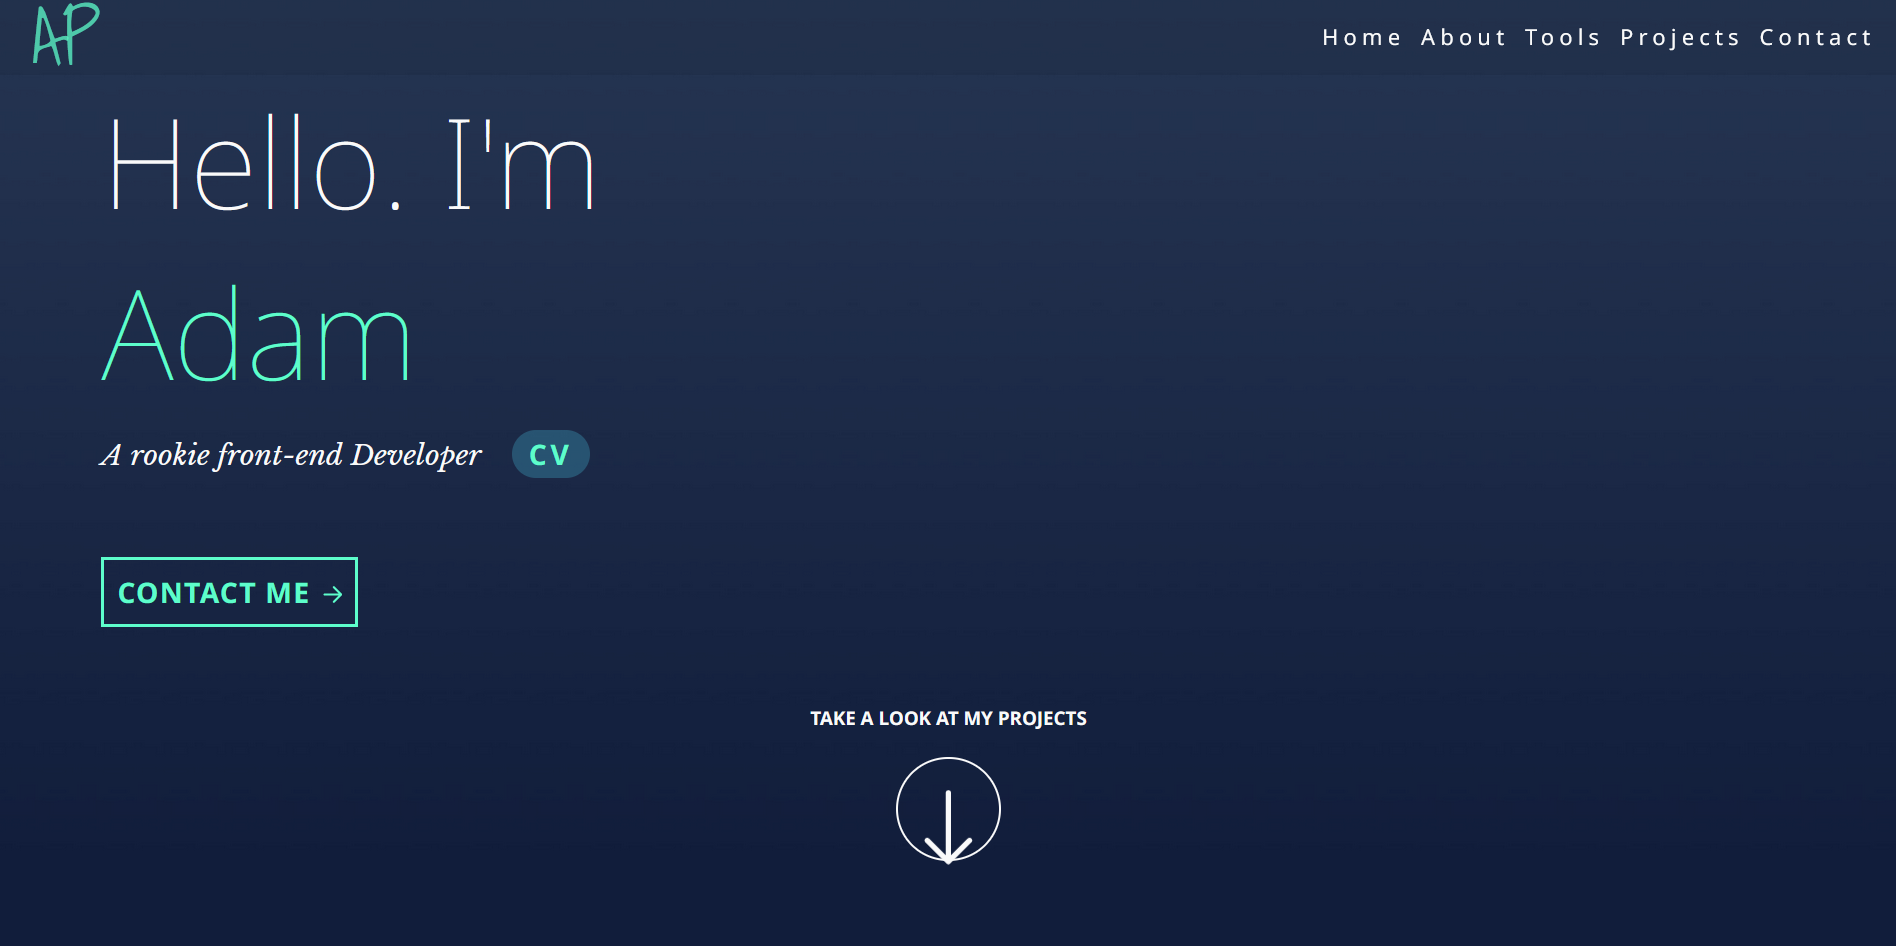
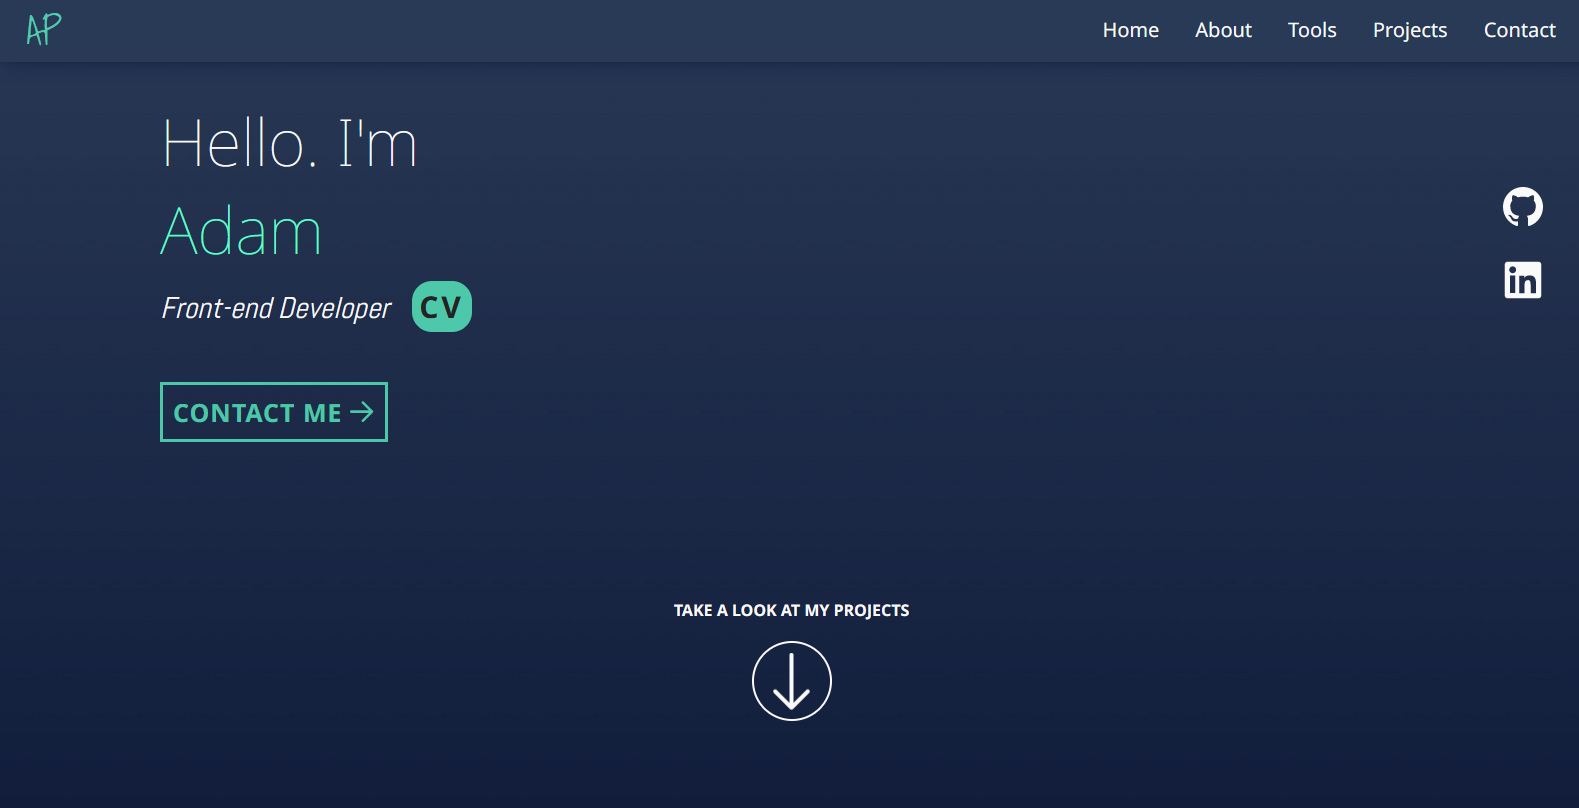
Content changes

diff --git a/index.html b/index.html
@@ -27,11 +27,11 @@
             </ul>
             <div class="js-menu  menu">
                 <ul class="ml">
-                    <li id="js-option1" class="ml-itm"><a href="#home" class="fs-xl  ml-skip">Home</a></li>
-                    <li id="js-option2" class="ml-itm"><a href="#about" class="fs-xl  ml-skip">About</a></li>
-                    <li id="js-option3" class="ml-itm"><a href="#tools" class="fs-xl  ml-skip">Tools</a></li>
-                    <li id="js-option4" class="ml-itm"><a href="#projects" class="fs-xl  ml-skip">Projects</a></li>
-                    <li id="js-option5" class="ml-itm"><a href="#contact" class="fs-xl  ml-skip">Contact</a></li>
+                    <li id="js-option1" class="ml-itm"><a href="#home" class="fs-l  ml-skip">Home</a></li>
+                    <li id="js-option2" class="ml-itm"><a href="#about" class="fs-l  ml-skip">About</a></li>
+                    <li id="js-option3" class="ml-itm"><a href="#tools" class="fs-l  ml-skip">Tools</a></li>
+                    <li id="js-option4" class="ml-itm"><a href="#projects" class="fs-l  ml-skip">Projects</a></li>
+                    <li id="js-option5" class="ml-itm"><a href="#contact" class="fs-l  ml-skip">Contact</a></li>
                 </ul>
                 <a href="#" class="btn  btn-typ4  open-resume-btn  centr  fs-m"><svg class="download-icon" xmlns="http://www.w3.org/2000/svg" aria-hidden="true" role="img" width="20" height="20" preserveAspectRatio="xMidYMid meet" viewBox="0 0 1024 1024"><path fill="#242325" d="M505.7 661a8 8 0 0 0 12.6 0l112-141.7c4.1-5.2.4-12.9-6.3-12.9h-74.1V168c0-4.4-3.6-8-8-8h-60c-4.4 0-8 3.6-8 8v338.3H400c-6.7 0-10.4 7.7-6.3 12.9l112 141.8zM878 626h-60c-4.4 0-8 3.6-8 8v154H214V634c0-4.4-3.6-8-8-8h-60c-4.4 0-8 3.6-8 8v198c0 17.7 14.3 32 32 32h684c17.7 0 32-14.3 32-32V634c0-4.4-3.6-8-8-8z"/></svg>Resume</a>
                 <div class="menu-socials">
@@ -40,20 +40,30 @@
                 </div>
             </div>
         </nav>
-        <h1 id="home" class="fs-xxl  hello">Hello. I'm <span>Adam</span></h1>
-        <p class="txt-italic  fs-m    profession">Front-end Developer</p>
-        <a href="#" class="btn  btn-typ4  hedr-open-resume-btn  centr  fs-m">CV</a>
-        <a class="btn  btn-typ1  contact-btn  centr  fs-s" href="#contact">CONTACT ME <span><svg class="anim-arrow-right" xmlns="http://www.w3.org/2000/svg" aria-hidden="true" role="img" width="18" height="18" preserveAspectRatio="xMidYMid meet" viewBox="0 0 20 20"><path fill="none" stroke="#5dfdcb" stroke-linecap="round" stroke-linejoin="round" stroke-width="2" d="M4 12h16m-7-7l7 7l-7 7"/></svg></span></a>
-        <div class="centr  fs-xs  skip-to-projects">
-            <p class="txt-upr  attention">Take a look at my projects</p>
-            <a class="skip-btn" href="#projects">
-                <svg class="anim-arrow-down" xmlns="http://www.w3.org/2000/svg" aria-hidden="true" role="img" width="65" height="65" preserveAspectRatio="xMidYMid meet" viewBox="0 0 16 16"><path fill="#fafafa" fill-rule="evenodd" d="M8 1a.5.5 0 0 1 .5.5v11.793l3.146-3.147a.5.5 0 0 1 .708.708l-4 4a.5.5 0 0 1-.708 0l-4-4a.5.5 0 0 1 .708-.708L7.5 13.293V1.5A.5.5 0 0 1 8 1z"/></svg>
-            </a>
+        <div class="hedr-wrapper">
+            <div class="hedr-content">
+                <div class="hedr-info">
+                    <h1 id="home" class="fs-xl  hello">Hello. I'm <span>Adam</span></h1>
+                    <p class="txt-italic  fs-m    profession">Front-end Developer</p>
+                    <a href="#" class="btn  btn-typ4  hedr-open-resume-btn  centr  fs-m">CV</a>
+                    <a class="btn  btn-typ1  contact-btn  centr  fs-s" href="#contact">CONTACT ME <span><svg class="anim-arrow-right" xmlns="http://www.w3.org/2000/svg" aria-hidden="true" role="img" width="18" height="18" preserveAspectRatio="xMidYMid meet" viewBox="0 0 20 20"><path fill="none" stroke="#5cfcc9bf" stroke-linecap="round" stroke-linejoin="round" stroke-width="2" d="M4 12h16m-7-7l7 7l-7 7"/></svg></span></a>
+                </div>
+                <div class="hedr-socials">
+                    <a href="https://github.com/adam-pilgermayer" class="github-profile" target="_blank"><svg xmlns="http://www.w3.org/2000/svg" aria-hidden="true" role="img" width="40" height="40" preserveAspectRatio="xMidYMid meet" viewBox="0 0 24 24"><path fill="#fafafa" fill-rule="evenodd" d="M12 0C5.37 0 0 5.37 0 12c0 5.31 3.435 9.795 8.205 11.385c.6.105.825-.255.825-.57c0-.285-.015-1.23-.015-2.235c-3.015.555-3.795-.735-4.035-1.41c-.135-.345-.72-1.41-1.23-1.695c-.42-.225-1.02-.78-.015-.795c.945-.015 1.62.87 1.845 1.23c1.08 1.815 2.805 1.305 3.495.99c.105-.78.42-1.305.765-1.605c-2.67-.3-5.46-1.335-5.46-5.925c0-1.305.465-2.385 1.23-3.225c-.12-.3-.54-1.53.12-3.18c0 0 1.005-.315 3.3 1.23c.96-.27 1.98-.405 3-.405s2.04.135 3 .405c2.295-1.56 3.3-1.23 3.3-1.23c.66 1.65.24 2.88.12 3.18c.765.84 1.23 1.905 1.23 3.225c0 4.605-2.805 5.625-5.475 5.925c.435.375.81 1.095.81 2.22c0 1.605-.015 2.895-.015 3.3c0 .315.225.69.825.57A12.02 12.02 0 0 0 24 12c0-6.63-5.37-12-12-12Z" clip-rule="evenodd"/></svg></a>
+                    <a href="#" class="linkedin-profile" target="_blank"><svg xmlns="http://www.w3.org/2000/svg" aria-hidden="true" role="img" width="40" height="40" preserveAspectRatio="xMidYMid meet" viewBox="0 0 24 24"><path fill="#fafafa" fill-rule="evenodd" d="M1 2.838A1.838 1.838 0 0 1 2.838 1H21.16A1.837 1.837 0 0 1 23 2.838V21.16A1.838 1.838 0 0 1 21.161 23H2.838A1.838 1.838 0 0 1 1 21.161V2.838Zm8.708 6.55h2.979v1.496c.43-.86 1.53-1.634 3.183-1.634c3.169 0 3.92 1.713 3.92 4.856v5.822h-3.207v-5.106c0-1.79-.43-2.8-1.522-2.8c-1.515 0-2.145 1.089-2.145 2.8v5.106H9.708V9.388Zm-5.5 10.403h3.208V9.25H4.208v10.54ZM7.875 5.812a2.063 2.063 0 1 1-4.125 0a2.063 2.063 0 0 1 4.125 0Z" clip-rule="evenodd"/></svg></a>
+                </div>
+            </div>
+            <div class="centr  fs-xxs  skip-to-projects">
+                <p class="txt-upr  attention">Take a look at my projects</p>
+                <a class="skip-btn" href="#projects">
+                    <svg class="anim-arrow-down" xmlns="http://www.w3.org/2000/svg" aria-hidden="true" role="img" width="65" height="65" preserveAspectRatio="xMidYMid meet" viewBox="0 0 16 16"><path fill="#fafafa" fill-rule="evenodd" d="M8 1a.5.5 0 0 1 .5.5v11.793l3.146-3.147a.5.5 0 0 1 .708.708l-4 4a.5.5 0 0 1-.708 0l-4-4a.5.5 0 0 1 .708-.708L7.5 13.293V1.5A.5.5 0 0 1 8 1z"/></svg>
+                </a>
+            </div>
         </div>
     </header>
     <main>
         <section id="about" class="main-sec">
-            <h2 class="fs-xl  sec-title">About</h2>
+            <h2 class="fs-l  sec-title">About</h2>
             <div class="centr  name-card">
                 <h3 class="txt-brzy  fs-m  me">Adam Pilgermayer</h3>
                 <p class="fs-xs  txt-brzy  my-story">I started my journey to become a web developer in January, 2022. I'm passionate about making my products look great and user friendly.</p>
@@ -61,8 +71,7 @@
             </div>
         </section>
         <section id="tools" class="main-sec">
-            <h2 class="fs-xl  sec-title">Tools</h2>
-            <p class="fs-s  centr  toolbox-desc">I use these to create my websites</p>
+            <h2 class="fs-l  sec-title">Tools</h2>
             <div class="toolbox">
                 <figure class="tb_fig  tool">
                     <svg xmlns="http://www.w3.org/2000/svg" aria-hidden="true" role="img" width="46.67" height="70" preserveAspectRatio="xMidYMid meet" viewBox="0 0 256 384"><path fill="#0ACF83" d="M64 384c35.328 0 64-28.672 64-64v-64H64c-35.328 0-64 28.672-64 64s28.672 64 64 64Z"/><path fill="#A259FF" d="M0 192c0-35.328 28.672-64 64-64h64v128H64c-35.328 0-64-28.672-64-64Z"/><path fill="#F24E1E" d="M0 64C0 28.672 28.672 0 64 0h64v128H64C28.672 128 0 99.328 0 64Z"/><path fill="#FF7262" d="M128 0h64c35.328 0 64 28.672 64 64s-28.672 64-64 64h-64V0Z"/><path fill="#1ABCFE" d="M256 192c0 35.328-28.672 64-64 64s-64-28.672-64-64s28.672-64 64-64s64 28.672 64 64Z"/></svg>
@@ -76,26 +85,30 @@
                     <svg xmlns="http://www.w3.org/2000/svg" aria-hidden="true" role="img" width="70" height="70" preserveAspectRatio="xMidYMid meet" viewBox="0 0 32 32"><path fill="#1572b6" d="M5.902 27.201L3.656 2h24.688l-2.249 25.197L15.985 30L5.902 27.201z"/><path fill="#33a9dc" d="m16 27.858l8.17-2.265l1.922-21.532H16v23.797z"/><path fill="#fff" d="M16 13.191h4.09l.282-3.165H16V6.935h7.75l-.074.829l-.759 8.518H16v-3.091z"/><path fill="#ebebeb" d="m16.019 21.218l-.014.004l-3.442-.93l-.22-2.465H9.24l.433 4.853l6.331 1.758l.015-.004v-3.216z"/><path fill="#fff" d="m19.827 16.151l-.372 4.139l-3.447.93v3.216l6.336-1.756l.047-.522l.537-6.007h-3.101z"/><path fill="#ebebeb" d="M16.011 6.935v3.091H8.545l-.062-.695l-.141-1.567l-.074-.829h7.743zM16 13.191v3.091h-3.399l-.062-.695l-.14-1.567l-.074-.829H16z"/></svg>
                     <figcaption class="fs-xs  centr  tool-name">CSS3</figcaption>
                 </figure>
+                <figure class="tb_fig  tool">
+                    <svg xmlns="http://www.w3.org/2000/svg" xmlns:xlink="http://www.w3.org/1999/xlink" aria-hidden="true" role="img" width="70" height="70" preserveAspectRatio="xMidYMid meet" viewBox="0 0 256 255"><defs><linearGradient id="svgIDa" x1="12.959%" x2="79.639%" y1="12.039%" y2="78.201%"><stop offset="0%" stop-color="#387EB8"/><stop offset="100%" stop-color="#366994"/></linearGradient><linearGradient id="svgIDb" x1="19.128%" x2="90.742%" y1="20.579%" y2="88.429%"><stop offset="0%" stop-color="#FFE052"/><stop offset="100%" stop-color="#FFC331"/></linearGradient></defs><path fill="url(#svgIDa)" d="M126.916.072c-64.832 0-60.784 28.115-60.784 28.115l.072 29.128h61.868v8.745H41.631S.145 61.355.145 126.77c0 65.417 36.21 63.097 36.21 63.097h21.61v-30.356s-1.165-36.21 35.632-36.21h61.362s34.475.557 34.475-33.319V33.97S194.67.072 126.916.072ZM92.802 19.66a11.12 11.12 0 0 1 11.13 11.13a11.12 11.12 0 0 1-11.13 11.13a11.12 11.12 0 0 1-11.13-11.13a11.12 11.12 0 0 1 11.13-11.13Z"/><path fill="url(#svgIDb)" d="M128.757 254.126c64.832 0 60.784-28.115 60.784-28.115l-.072-29.127H127.6v-8.745h86.441s41.486 4.705 41.486-60.712c0-65.416-36.21-63.096-36.21-63.096h-21.61v30.355s1.165 36.21-35.632 36.21h-61.362s-34.475-.557-34.475 33.32v56.013s-5.235 33.897 62.518 33.897Zm34.114-19.586a11.12 11.12 0 0 1-11.13-11.13a11.12 11.12 0 0 1 11.13-11.131a11.12 11.12 0 0 1 11.13 11.13a11.12 11.12 0 0 1-11.13 11.13Z"/></svg>
+                    <figcaption class="fs-xs  centr  tool-name">PYTHON3</figcaption>
+                </figure>
             </div>
             <p class="txt-caps  centr fs-xs  in-progress">this list will be extended with other languages & technologies soon!</p>
         </section>
         <section id="projects" class="main-sec">
-            <h2 class="fs-xl  sec-title">Projects</h2>
+            <h2 class="fs-l  sec-title">Projects</h2>
             <div class="project-container">
                 <div class="proj-card">
                     <div class="proj-img-box">
                         <img class="proj-img" src="./content/images/project_images/portfolio.png" alt="An image of my first portfolio webpage">
                     </div>
                     <div class="proj-details">
-                        <h4 class="fs-m  proj-name">My portfolio</h4>
-                        <p class="fs-xs  proj-desc">My front-end portfolio website.</p>
-                        <p class="fs-xs  proj-tools">
+                        <h4 class="fs-s  proj-name">My portfolio</h4>
+                        <p class="fs-xxs  proj-desc">My front-end portfolio website.</p>
+                        <p class="txt-italic  fs-xxs  proj-tools">
                             <span><svg class="used-techs" xmlns="http://www.w3.org/2000/svg" aria-hidden="true" role="img" width="18" height="18" preserveAspectRatio="xMidYMid meet" viewBox="0 0 16 16"><path fill="#fafafa" d="M10.478 1.647a.5.5 0 1 0-.956-.294l-4 13a.5.5 0 0 0 .956.294l4-13zM4.854 4.146a.5.5 0 0 1 0 .708L1.707 8l3.147 3.146a.5.5 0 0 1-.708.708l-3.5-3.5a.5.5 0 0 1 0-.708l3.5-3.5a.5.5 0 0 1 .708 0zm6.292 0a.5.5 0 0 0 0 .708L14.293 8l-3.147 3.146a.5.5 0 0 0 .708.708l3.5-3.5a.5.5 0 0 0 0-.708l-3.5-3.5a.5.5 0 0 0-.708 0z"/></svg></span>
                         figma, html, css, javascript
                         </p>
                         <div class="proj-btns">
-                            <a href="https://adam-pilgermayer.github.io/" class="btn  btn-typ2  demo-btn  centr  fs-m" target="_blank">Demo</a>
-                            <a href="https://github.com/adam-pilgermayer/adam-pilgermayer.github.io" class="btn  btn-typ1  github-link-btn  centr  fs-m" target="_blank">GitHub</a>
+                            <a href="https://adam-pilgermayer.github.io/" class="btn  btn-typ2  demo-btn  centr  fs-s" target="_blank">Demo</a>
+                            <a href="https://github.com/adam-pilgermayer/adam-pilgermayer.github.io" class="btn  btn-typ1  github-link-btn  centr  fs-s" target="_blank">GitHub</a>
                         </div>
                     </div>
                 </div>
@@ -104,22 +117,22 @@
                         <img class="proj-img" src="./content/images/project_images/MINESWEEPER_PROJECT_03.png" alt="An image of a minesweeper project">
                     </div>
                     <div class="proj-details">
-                        <h4 class="fs-l  proj-name">Minesweeper</h4>
-                        <p class="fs-xs  proj-desc">A minesweeper game written in Python containing most elements of the game.</p>
-                        <p class="fs-xs  proj-tools">
+                        <h4 class="fs-s  proj-name">Minesweeper</h4>
+                        <p class="fs-xxs  proj-desc">A minesweeper game written in Python containing most elements of the game.</p>
+                        <p class="txt-italic  fs-xxs  proj-tools">
                             <span><svg class="used-techs" xmlns="http://www.w3.org/2000/svg" aria-hidden="true" role="img" width="18" height="18" preserveAspectRatio="xMidYMid meet" viewBox="0 0 16 16"><path fill="#fafafa" d="M10.478 1.647a.5.5 0 1 0-.956-.294l-4 13a.5.5 0 0 0 .956.294l4-13zM4.854 4.146a.5.5 0 0 1 0 .708L1.707 8l3.147 3.146a.5.5 0 0 1-.708.708l-3.5-3.5a.5.5 0 0 1 0-.708l3.5-3.5a.5.5 0 0 1 .708 0zm6.292 0a.5.5 0 0 0 0 .708L14.293 8l-3.147 3.146a.5.5 0 0 0 .708.708l3.5-3.5a.5.5 0 0 0 0-.708l-3.5-3.5a.5.5 0 0 0-.708 0z"/></svg></span>
-                        figma, html, css, javascript
+                        python
                         </p>
                         <div class="proj-btns">
-                            <a href="https://adam-pilgermayer.github.io/" class="btn  btn-typ2  demo-btn  centr  fs-m" target="_blank">Demo</a>
-                            <a href="https://github.com/adam-pilgermayer/adam-pilgermayer.github.io" class="btn  btn-typ1  github-link-btn  centr  fs-m" target="_blank">GitHub</a>
+                            <a href="https://adam-pilgermayer.github.io/" class="btn  btn-typ2  demo-btn  centr  fs-s" target="_blank">Demo</a>
+                            <a href="https://github.com/adam-pilgermayer/adam-pilgermayer.github.io" class="btn  btn-typ1  github-link-btn  centr  fs-s" target="_blank">GitHub</a>
                         </div>
                     </div>
                 </div>
             </div>
         </section>
         <section id="contact" class="main-sec">
-            <h2 class="fs-xl  sec-title">Contact</h2>
+            <h2 class="fs-l  sec-title">Contact</h2>
             <p class="fs-s  centr  hire-me">Would you like to work with me on your project?</p>
             <p class="fs-s  centr  hire-me">Then do not hesitate to message me.</p>
             <form action="https://formspree.io/f/mlezowkb" method="POST" target="_blank">
